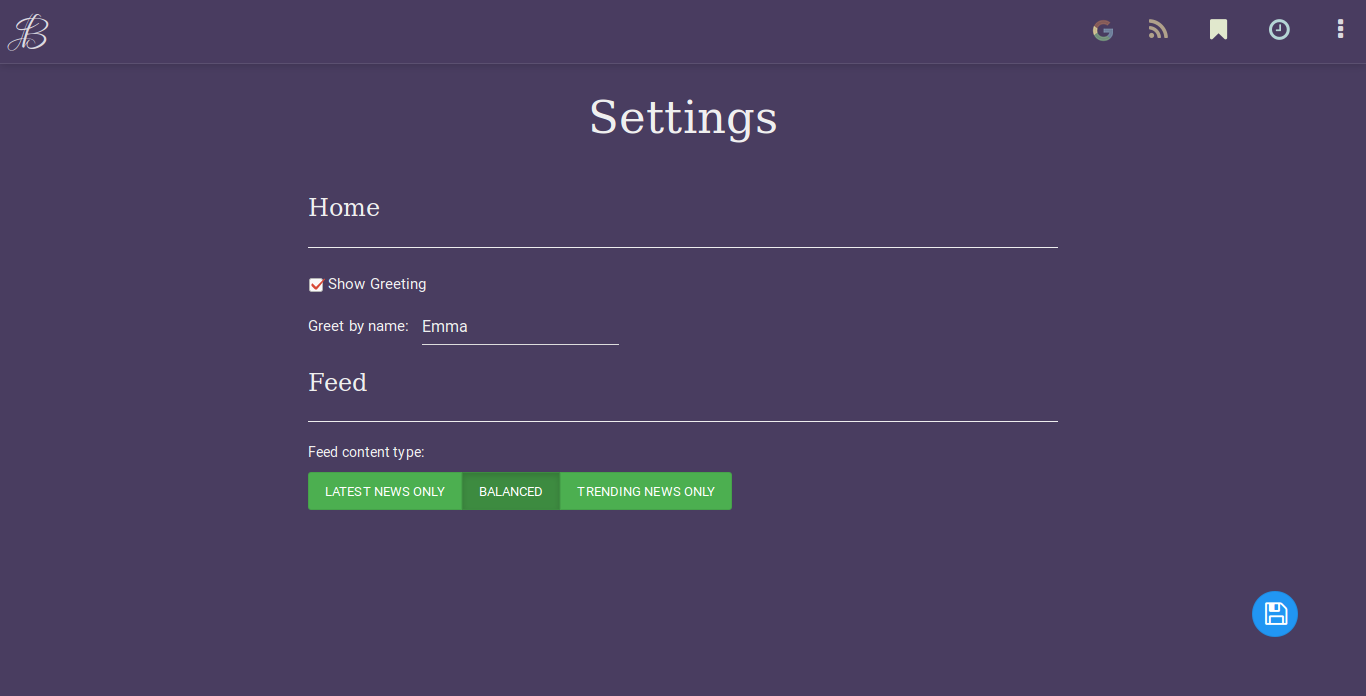
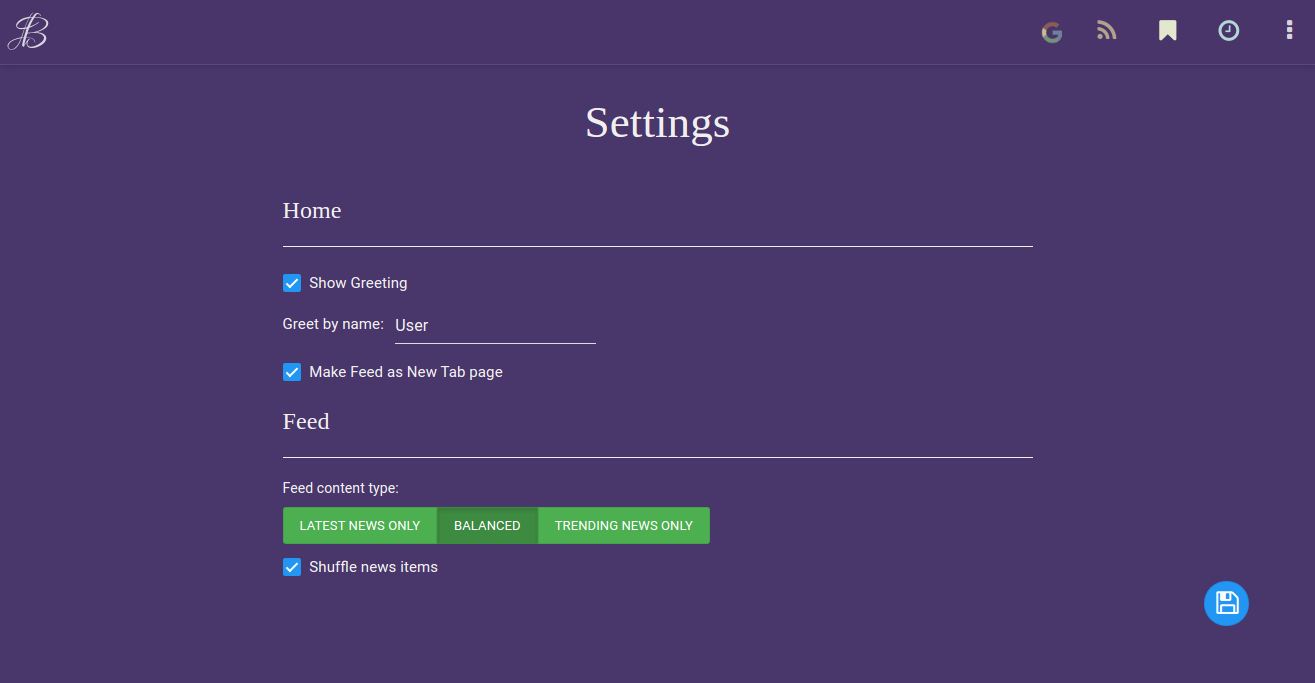
Added option to make Feed page as default New Tab Added gitignore

diff --git a/data/markup/help.html b/data/markup/help.html
@@ -114,6 +114,14 @@
                     <p>
                         You can also disable the greeting message on the home screen by unchecking the 'Show Greeting' option in the settings.
                     </p>
+                    <span class="help-body-title" id="feedpage">
+                        Make Feed page your default New Tab page
+                    </span>
+                    <hr class="help-panel-divider" />
+                    <p>
+                        In case you do not like the extra click to reach the Feed, you can also make Feed page your default New Tab page by checking the
+                        'Make Feed as New Tab page' checkbox in the settings.
+                    </p>
                     <span class="help-body-title" id="feedRatio">
                         Feed content ratio
                     </span>
@@ -182,6 +190,10 @@
                 <li>
                     <a class="help-nav-link" du-smooth-scroll="greeting" duration="750" offset="75">
                     Disable Greeting</a>
+                </li>
+                <li>
+                    <a class="help-nav-link" du-smooth-scroll="feedpage" duration="750" offset="75">
+                    Make Feed your New Tab page</a>
                 </li>
                 <li>
                     <a class="help-nav-link" du-smooth-scroll="feedRatio" duration="750" offset="75">

diff --git a/data/js/controllers/HomeController.js b/data/js/controllers/HomeController.js
@@ -2,7 +2,7 @@
 
     var app = angular.module('blink');
 
-    var HomeController = function($scope, $interval) {
+    var HomeController = function($scope, $interval, $location) {
 
         var greetingFor = function(hours) {
             if (hours > 3 && hours < 12) return "Morning";
@@ -24,9 +24,12 @@
               typeof settings.userSettings === "undefined")
                 return;
 
-            $scope.username = settings.userSettings.userName;
-            $scope.showGreeting = settings.userSettings.showGreeting;
-
+            if (settings.userSettings.justFeed) {
+                $location.path("/feed");
+            } else {
+                $scope.username = settings.userSettings.userName;
+                $scope.showGreeting = settings.userSettings.showGreeting;
+            }
         });
 
         $scope.clocky = function() {
@@ -40,6 +43,6 @@
 
     };
 
-    app.controller('HomeController', ['$scope', '$interval', HomeController]);
+    app.controller('HomeController', ['$scope', '$interval', '$location', HomeController]);
 
 }());

diff --git a/data/js/controllers/SettingsController.js b/data/js/controllers/SettingsController.js
@@ -6,6 +6,7 @@
 
         $scope.showProgressbar = true;
         $scope.showGreeting = true;
+        $scope.justFeed = false;
         $scope.userName = "User";
         $scope.feedType = 'b';
         $scope.shuffleFeed = true;
@@ -20,7 +21,8 @@
                 showGreeting: $scope.showGreeting,
                 userName: $scope.userName,
                 feedType: $scope.feedType,
-                shuffleFeed: $scope.shuffleFeed
+                shuffleFeed: $scope.shuffleFeed,
+                justFeed: $scope.justFeed
             };
 
             chrome.storage.sync.set({ "userSettings": userSettings },
@@ -51,6 +53,7 @@
             $scope.userName = settings.userSettings.userName;
             $scope.feedType = settings.userSettings.feedType;
             $scope.shuffleFeed = settings.userSettings.shuffleFeed;
+            $scope.justFeed = settings.userSettings.justFeed;
 
         });
 

diff --git a/data/js/app.js b/data/js/app.js
@@ -4,6 +4,25 @@
         'ngRoute', 'ui.bootstrap', 'vAccordion'
     ]);
 
+    // var homePath = "markup/home.html";
+    // var HomeController = "HomeController";
+    //
+    // chrome.storage.sync.get("userSettings", function(settings) {
+    //     // It's safe to fail silently if there is error retrieving settings
+    //     if (chrome.runtime.lastError)
+    //         return;
+    //
+    //     if (settings.userSettings == "undefined" ||
+    //       typeof settings.userSettings === "undefined")
+    //         return;
+    //
+    //     if (settings.userSettings.justFeed) {
+    //         homePath = "markup/feed.html";
+    //         HomeController = "FeedController";
+    //     }
+    //
+    // });
+
     var routingTable = [{
         target: "/home",
         url: "markup/home.html",

diff --git a/data/markup/home.html b/data/markup/home.html
@@ -3,7 +3,7 @@
     <div class="space"></div>
     <div class="space"></div>
     <div class="row text-center">
-        <div class="col-md-8 col-md-push-2 clocky noselect" style="cursor: default">
+        <div class="col-md-8 col-md-push-2 clocky noselect" style="cursor: default" ng-show="showGreeting">
             <h1 class="time"> {{ clock | date:'hh mm' }} </h1>
             <h4 class="day"> {{ clock | date:'EEEE, MMMM dd' }} </h4>
             <h3 class="greeting" ng-show="showGreeting">Good {{ greeting }}, {{ username }}</h3>

diff --git a/data/markup/settings.html b/data/markup/settings.html
@@ -20,6 +20,11 @@
                 <label for="userName">Greet by name:&nbsp;&nbsp;</label>
                 <input type="text" class="form-control" id="userName" ng-model="userName" placeholder="{{ userName }}" ng-disabled="!showGreeting" style="color: #eee">
             </div>
+            <div class="checkbox">
+                <label>
+                    <input type="checkbox" ng-model="justFeed"> Make Feed as New Tab page</input>
+                </label>
+            </div>
         </form>
     </div>
     <div class="row">

diff --git a/background.js b/background.js
@@ -24,7 +24,8 @@ chrome.storage.sync.get(null, function(defaults) {
                 "showGreeting": true,
                 "userName": "User",
                 "feedType": "b",
-                "shuffleFeed": true
+                "shuffleFeed": true,
+                "justFeed": false
             },
             "feedList": []
         };
